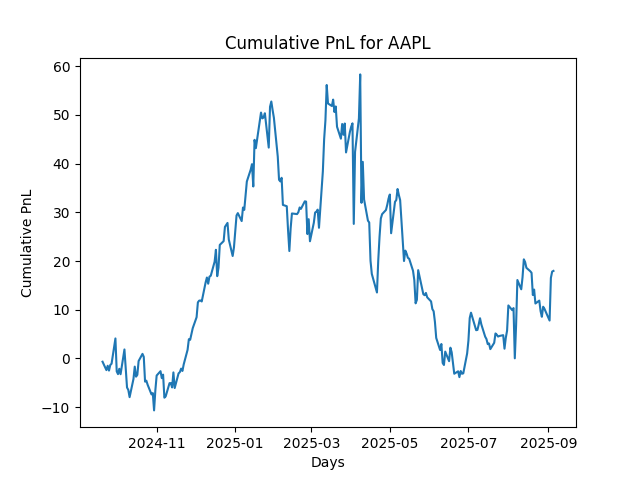
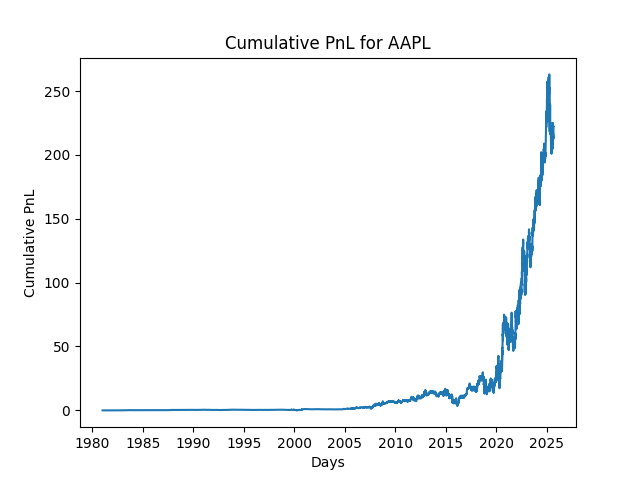
Increased the number of datapoints

diff --git a/main.py b/main.py
@@ -7,7 +7,7 @@ import os
 os.makedirs("images", exist_ok=True)
 
 TICKER = "AAPL"
-DATA = yf.download(TICKER, period="1y")
+DATA = yf.download(TICKER, period="max")
 CLOSE_PRICES = DATA["Close"][TICKER].tolist()
 N = 10
 
